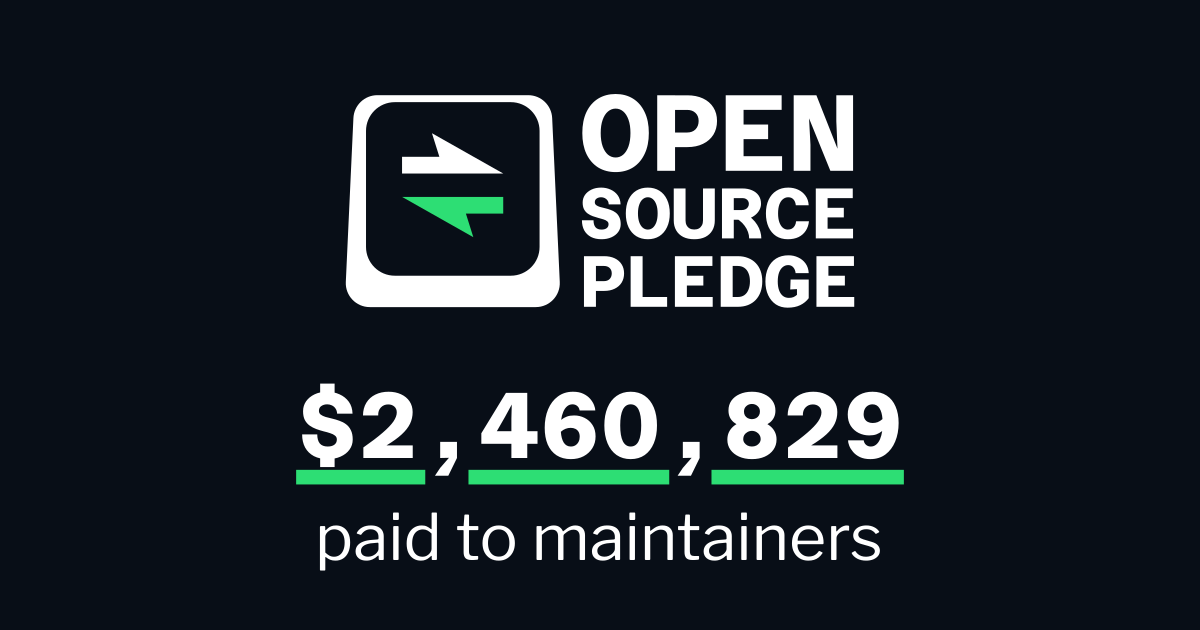
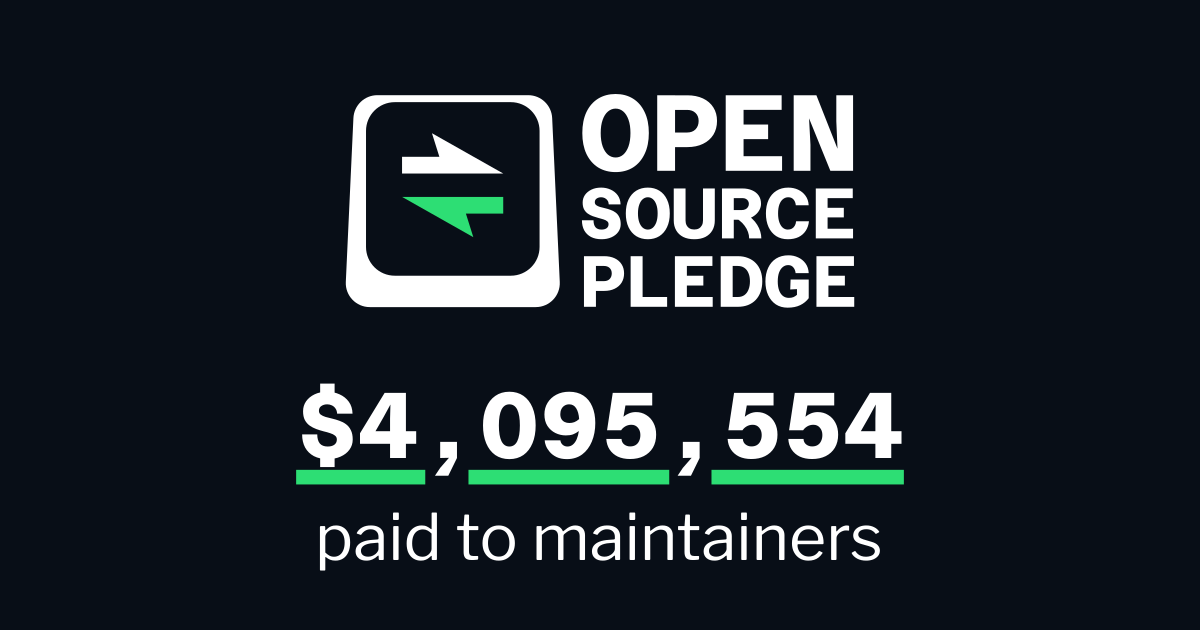
add all-time total raised

Changed region(s): [[0.5858, 0.6032, 0.7708, 0.7238], [0.4008, 0.6032, 0.555, 0.7238], [0.2775, 0.6032, 0.37, 0.7238]]

diff --git a/src/members/common.ts b/src/members/common.ts
@@ -56,12 +56,24 @@ export function getDollarsPerDev(report: MemberReport) {
   return report.usdAmountPaid / report.averageNumberOfDevs;
 }
 
-export function getGrandTotalRaised(members: Member[]) {
-  let grandTotal = 0;
+export function getAllTimeTotalRaised(members: Member[]) {
+  let total = 0;
   members.forEach((member) => {
-    grandTotal += member.annualReports[0].usdAmountPaid;
+    member.annualReports.forEach((report) => {
+      if (+report.year >= 2023) {
+        total += report.usdAmountPaid;
+      }
+    });
   });
-  return grandTotal;
+  return total;
+}
+
+export function getLastYearTotalRaised(members: Member[]) {
+  let total = 0;
+  members.forEach((member) => {
+    total += member.annualReports[0].usdAmountPaid;
+  });
+  return total;
 }
 
 export function fmtCurrency(num: number) {

diff --git a/src/members/bin/getAllTimeTotalRaised.ts b/src/members/bin/getAllTimeTotalRaised.ts
@@ -5,10 +5,10 @@
 
 // Must be run in repository root.
 
-import { getMembers, getGrandTotalRaised, fmtCurrency } from '../common.ts';
+import { getMembers, getAllTimeTotalRaised, fmtCurrency } from '../common.ts';
 
 async function main() {
-  console.log(fmtCurrency(getGrandTotalRaised(getMembers())));
+  console.log(fmtCurrency(getAllTimeTotalRaised(getMembers())));
 }
 
 main();
